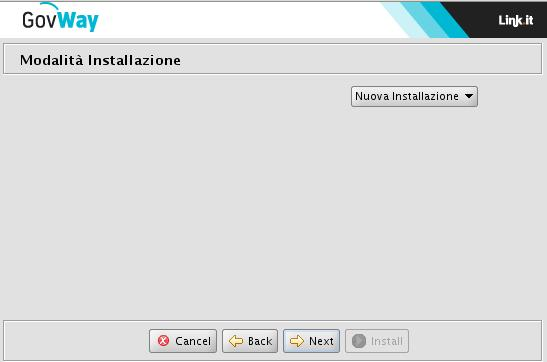
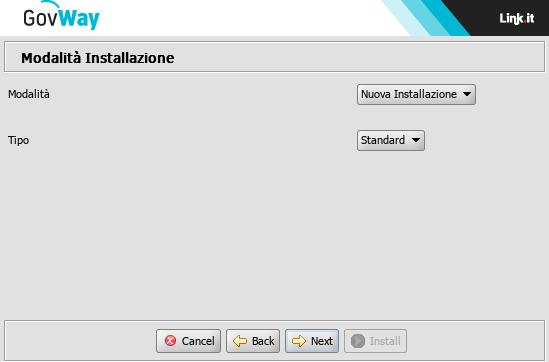
[Documentazione] Descritto funzionamento dell'installer in modalità avanzata
Squashed commit of the following:

commit a4750b3bcd899477bef75cd492e5b05870c6ed9e
Author: Giuseppe Papandrea <papandrea@link.it>
Date:   Tue May 25 11:58:28 2021 +0200

    dispiegamento in modalità avanzata

commit 7b5af4cf7c8bfaaf96d2fa9ba4d9eda7053fad40
Author: Giuseppe Papandrea <papandrea@link.it>
Date:   Thu May 20 17:40:02 2021 +0200

    Documentate le maschere dell'installazione avanzata del setup

diff --git a/resources/doc/src/manuali/installazione/installer/avanzata.rst b/resources/doc/src/manuali/installazione/installer/avanzata.rst
@@ -1,0 +1,85 @@
+.. _inst_installer_avanzata:
+
+Modalità Avanzata
+-----------------
+
+Se si è optato per la modalità di installazione "Avanzata", dopo aver visualizzato il pannello delle "Informazioni Preliminari",
+il processo d'installazione mostra un pannello aggiuntivo denominato "Informazioni Dispiegamento".
+
+   .. figure:: ../_figure_installazione/installer-infodeploy.jpg
+    :scale: 100%
+    :align: center
+
+    Informazioni Dispiegamento
+
+Le informazioni richieste da questo pannello servono a fornire le preferenze su come devono essere pacchettizzati i datasource
+e i singoli componenti applicativi, in accordo all'architettura di dispiegamento che si vuole adottare.
+
+La sezione **DBMS** prevede le seguenti opzioni:
+
+- *Configurazione*. Indica lo schema del database da utilizzare come repository delle configurazioni:
+
+	- *Utilizza stesso database del Runtime*: le configurazioni risiedono nel medesimo schema di esercizio di Govway
+
+	- *Database dedicato alla configurazione*: le configurazioni risiedono su uno schema separato da quello di esercizio di Govway
+
+- *Tracce*. Indica lo schema database da utilizzare come repository delle tracce:
+
+	- *Utilizza stesso database del Runtime*: le tracce risiedono nel medesimo schema di esercizio di Govway
+
+	- *Database dedicato alle Tracce*: le tracce risiedono su uno schema separato da quello di esercizio di Govway
+
+	- Opzione *Standard / Full Index*: se si sceglie l'opzione *Full Index*, il database sarà configurato con un indice contenente molteplici colonne che consente di migliorare le performance in fase di accesso alle tracce
+
+- *Statistiche*. Indica lo schema database da utilizzare come repository delle statistiche:
+
+	- *Utilizza stesso database del Runtime*: le statistiche risiedono nel medesimo schema di esercizio di Govway
+
+	- *Utilizza stesso database delle Tracce*: le statistiche risiedono nel medesimo schema utilizzato per le Tracce
+
+	- *Database dedicato alle Statistiche*: le statistiche risiedono su uno schema separato da quello di esercizio (e tracce) di Govway
+
+	- Opzione *Standard / Full Index*: se si sceglie l'opzione *Full Index* il database sarà configurato con un indice contenente molteplici colonne che consente di migliorare le performance in fase di accesso alle statistiche
+
+La sezione **Componenti Applicative** prevede le seguenti opzioni:
+
+- *Configurazione e Monitoraggio*: indica l'ambiente in cui saranno dispiegate le console web:
+
+	- *Utilizza stesso ambiente del Runtime*: le console web risiedono nel medesimo ambiente (application server) dove è in esecuzione il runtime di Govway
+
+	- *Ambiente dedicato*: le console web risiedono in un ambiente (application server) distinto da quello del runtime di Govway
+
+- *Generazione delle Statistiche*: scelta del meccanismo da adottare per il periodico aggiornamento delle statistiche:
+
+	- *Utilizza stesso ambiente del Runtime*: il meccanismo di generazione delle statistiche è automatizzato con un sistema di integrazione al runtime di Govway
+
+	- *Generazione tramite Applicazione Batch*: la generazione delle statistiche avviene tramite invocazione di un batch appositamente generato
+
+- *Gestione dei Nodi*: Indica la modalità con cui si vuole gestire la configurazione dei diversi nodi di runtime:
+
+	- *Statica*: modalità che prevede la registrazione manuale dei nodi presenti come descritto nella sezione :ref:`cluster`. In questo caso la console di gestione consente l'accesso a specifiche operazioni di manutenzione sui singoli nodi.
+
+	- *Dinamica*: modalità che prevede l'individuazione dinamica dei nodi presenti, senza che sia necessario specificarlo nella configurazione (utile in ambienti container). In questo scenario non risultano accessibili dalla console di gestione alcune operazioni di manutenzione sui singoli nodi.
+
+In funzione delle opzioni, fornite in questo pannello, saranno proposti dalla procedura d'installazione alcuni passaggi aggiuntivi.
+In particolare, riguardo l'accesso agli schemi del database, in funzione del numero di datasource previsto saranno opzionalmente richiesti in altrettanti pannelli:
+
+- *Informazioni DataSource dedicato alle Configurazioni*
+
+- *Informazioni DataSource dedicato alle Tracce*
+
+- *Informazioni DataSource dedicato alle Statistiche*
+
+In funzione della modalità di *Gestione dei Nodi* indicata, nel caso si sia scelto la modalità *Dinamica* verrà presentato l'ulteriore pannello *Dispiegamento Dinamico* che consente di indicare i seguenti dati:
+
+- *Servizio Check* URL: servizio che consente di monitorare lo stato dei nodi; è possibile utilizzare il servizio '/govway/check' di un qualsiasi nodo (es. acceduto tramite un bilanciatore) o un servizio fornito dal container.
+
+- *Servizio Proxy* URL: servizio che consente di inviare un comando ad ogni nodo di runtime attivo; deve essere indirizzato il servizio '/govway/proxy' di un qualsiasi nodo attivo.
+
+   .. figure:: ../_figure_installazione/installer-dyndeploy.jpg
+    :scale: 100%
+    :align: center
+
+    Dispiegamento Dinamico
+
+I restanti passi del processo di installazione rimangono invariati rispetto alla modalità Standard.

diff --git a/resources/doc/src/manuali/installazione/dispiegamento/nuovaInstallazione.rst b/resources/doc/src/manuali/installazione/dispiegamento/nuovaInstallazione.rst
@@ -30,6 +30,17 @@ seguenti:
 
     - *psql <hostname> <username> -f sql/GovWay_init.sql*
 
+	.. note::
+		In caso di installazione *Avanzata*:
+	
+		-	Gli script *sql/GovWay.sql* e *sql/GovWay_init.sql* saranno eseguiti limitatamente al database del runtime di Govway.
+	
+		-	Se presente lo script *sql/GovWayConfigurazione.sql*, deve essere eseguito per la creazione dello schema database dedicato alle configurazioni. Successivamente eseguire lo script *GovWayConfigurazione_init.sql* per l'inserimento dei dati di inizializzazione del database.
+	
+		-	Se presente lo script *sql/GovWayStatistiche.sql*, deve essere eseguito per la creazione dello schema database dedicato alle statistiche. Successivamente eseguire lo script *GovWayStatistiche_init.sql* per l'inserimento dei dati di inizializzazione del database.
+	
+		-	Se presente lo script *sql/GovWayTracciamento.sql*, deve essere eseguito per la creazione dello schema database dedicato alle tracce. Successivamente eseguire lo script *GovWayTracciamento_init.sql* per l'inserimento dei dati di inizializzazione del database.
+	
 #.  Installare il DriverJDBC, relativo al tipo di RDBMS indicato in fase
     di setup, nella directory:
 
@@ -71,6 +82,20 @@ seguenti:
     sostituire al loro interno il placeholder *NOME_DRIVER_JDBC.jar* con
     il nome del driver JDBC installato in precedenza.
 
+	.. note::
+		In caso di installazione *Avanzata*, in base alle scelte effettuate per differenziare gli schemi database saranno disponibili nella directory *dist/datasource* tutte le definizioni richieste. In particolare, se previsto, potranno essere presenti:
+	
+		-	*org.govway.datasource.tracciamento*, per l'accesso al database dedicato alle tracce
+	
+		-	*org.govway.datasource.statistiche*, per l'accesso al database dedicato alle statistiche
+	
+		
+		Se inoltre è stato indicato un ambiente dedicato per *Configurazione e Monitoraggio", quindi distinto dal runtime, dentro la directory *dist/datasource* saranno presenti le due directory:
+	
+		-	*runtime*, contenente i datasource da dispiegare nell'ambiente dedicato al runtime di Govway
+	
+		-	*manager*, contenente i datasource da dispiegare nell'ambiente dedicato alle console di configurazione e monitoraggio
+	
 #.  Eseguire il dispiegamento delle applicazioni presenti nella
     directory *archivi* secondo le modalità disponibili per
     l'Application Server scelto. Per un rapido dispiegamento è possibile
@@ -79,6 +104,13 @@ seguenti:
     -  *<WILDFLY_HOME>/standalone/deployments*, nel caso di Wildfly.
 
     -  *<TOMCAT_HOME>/webapps*, nel caso di Tomcat
+
+	.. note::
+		In caso di installazione *Avanzata*, se è stata indicata la scelta di un ambiente dedicato per Configurazione e Monitoraggio, la directory *dist/archivi* conterrà due subdirectory:
+
+		-	*runtime*, contenente gli archivi applicativi da dispiegare nell'ambiente dedicato al runtime di Govway
+	
+		-	*manager*, contenente gli archivi applicativi da dispiegare nell'ambiente dedicato alle console di configurazione e monitoraggio
 
 #.  Verificare che la directory di lavoro di GovWay, fornita con le
     informazioni preliminari dell'utility di installazione, esista o
@@ -93,8 +125,18 @@ seguenti:
     La directory di destinazione deve essere accessibile in lettura
     all'utente con cui si esegue l'Application Server.
 
+	.. note::
+		In caso di installazione *Avanzata*, se è stata indicata la scelta di un ambiente dedicato per Configurazione e Monitoraggio, la directory *dist/cfg* conterrà due subdirectory:
+
+		-	*runtime*, contenente i file di configurazione da copiare nella directory di lavoro dell'ambiente dedicato al runtime di Govway
+	
+		-	*manager*, contenente i file di configurazione da copiare nella directory di lavoro dell'ambiente dedicato alle console di configurazione e monitoraggio
+
 #. Avviare l'application server con il relativo service oppure utilizzando la linea di comando:
 
     -  *<WILDFLY_HOME>/bin/standalone.sh*, nel caso di Wildfly.
 
     -  *<TOMCAT_HOME>/bin/startup.sh*, nel caso di Tomcat.
+
+.. note::
+	In caso di installazione *Avanzata*, se è stata indicata la scelta *Generazione tramite Applicazione Batch* relativamente all'opzione di *Generazione delle Statistiche*, sarà presente la directory *dist/batch*. Per il dispiegamento del batch fare riferimento alla sezione :ref:`deploy_batch`.

diff --git a/resources/doc/src/releaseNotes/3.3.4/api.rst b/resources/doc/src/releaseNotes/3.3.4/api.rst
@@ -4,18 +4,20 @@ Miglioramenti alle API di Gestione e Monitoraggio
 
 Sono stati apportati i seguenti miglioramenti alle API di gestione:
 
-- È adesso possibile ottenere la lista degli oggetti presenti nel registro relativamente a qualsiasi profilo e/o soggetto. 
+- aggiunta la possibilità di effettuare configurazione con il Profilo 'ModI';
 
-- È stata aggiunta la possibilità di filtrare per API sulle erogazioni e fruizioni.
+- è adesso possibile ottenere la lista degli oggetti presenti nel registro relativamente a qualsiasi profilo e/o soggetto;
 
-- Il parametro 'Access-Control-Max-Age', per le richieste Preflight CORS, è adesso configurabile via API.
+- aggiunta la possibilità di filtrare per API sulle erogazioni e fruizioni;
+
+- il parametro 'Access-Control-Max-Age', per le richieste Preflight CORS, è adesso configurabile via API.
 
 
 Sono stati apportati i seguenti miglioramenti alle API di monitoraggio:
 
-- Aggiunta la possibilità di ottenere report statistici filtrando per l'identificativo del cluster.
+- aggiunta la possibilità di ottenere report statistici filtrando per l'identificativo del cluster;
 
-- È adesso possibile ricercare transazioni oltre che per IdMessaggio anche per id di conversazione o di riferimento alla richiesta.
+- è adesso possibile ricercare transazioni oltre che per IdMessaggio anche per id di conversazione o di riferimento alla richiesta.
 	
 
 

diff --git a/resources/doc/src/manuali/installazione/dispiegamento/batch.rst b/resources/doc/src/manuali/installazione/dispiegamento/batch.rst
@@ -1,0 +1,24 @@
+.. _deploy_batch:
+
+Batch Generazione Statistiche
+-----------------------------
+
+Tra le opzioni dell'installazione avanzata esiste l'opzione che consente di mantenere il controllo diretto sulla generazione delle statistiche tramite una procedura batch.
+Selezionando l'opzione di *Generazione tramite Applicazione Batch* relativamente alla voce *Generazione delle Statistiche*, il processo di installazione crea la directory *dist/batch*.
+L'esecuzione della procedura deve essere schedulata ad intervalli regolari ad esempio utilizzando un cron.
+
+Dentro la directory *dist/batch* troviamo le seguenti subdirectory:
+
+	- *generatoreStatistiche*, che comprende il batch
+
+	- *crond*, che comprende un esempio di utilizzo del batch agganciato a un cron
+
+La directory *dist/batch/generatoreStatistiche* contiene la seguente struttura:
+
+	- directory *lib*, che comprende le librerie per l'esecuzione del batch
+
+	- directory *jdbc*, che deve essere popolata con il driver JDBC adeguato alla piattaforma database adottata
+
+	- directory *properties*, che comprende i file di configurazione. Tra questi troviamo il file *daoFactory.properties* dove sono presenti i dati per la connessione al database
+
+	- script shell per l'esecuzione dei batch che campionano le informazioni statistiche su differenti intervalli: orario o giornaliero.

diff --git a/resources/doc/src/manuali/installazione/installer/index.rst b/resources/doc/src/manuali/installazione/installer/index.rst
@@ -23,12 +23,17 @@ Esecuzione dell'Installer
    procede con la scelta della *Modalità di Installazione*. Le scelte
    possibili sono:
 
-   -  *Nuova Installazione*: scelta da effettuare nel caso in cui si
-      stia procedendo con una nuova installazione di GovWay.
+   - *Modalità*:
 
-   -  *Aggiornamento*: scelta da effettuare nel caso in cui si stia
-      procedendo con l'aggiornamento di una versione di GovWay
-      precedentemente installata.
+   	- *Nuova Installazione*: scelta da effettuare nel caso in cui si stia procedendo con una nuova installazione di GovWay.
+
+   	- *Aggiornamento*: scelta da effettuare nel caso in cui si stia procedendo con l'aggiornamento di una versione di GovWay precedentemente installata.
+
+   - *Tipo*:
+
+	- *Standard*: selezione del modello architetturale più semplice e adeguato nei casi più comuni
+
+	- *Avanzata*: permette di selezionare caratteristiche architetturali avanzate nei casi con esigenze specifiche
 
    .. figure:: ../_figure_installazione/installer-scr0b.jpg
       :scale: 100%
@@ -41,3 +46,4 @@ Esecuzione dell'Installer
 
         nuovaInstallazione
 	aggiornamento
+	avanzata

diff --git a/resources/doc/src/releaseNotes/3.3.4/console.rst b/resources/doc/src/releaseNotes/3.3.4/console.rst
@@ -28,6 +28,8 @@ Sono stati apportati i seguenti miglioramenti alla console di gestione:
 
 - aggiunta funzionalità di filtro per Tag nelle policy di Rate Limiting a livello di configurazione globale;
 
+- nella configurazione del tracciamento, dove è possibile indicare gli esiti delle transazioni da registrare, viene adesso gestita tramite una voce dedicata l'esito relativo alla violazione di una policy di RateLimiting;
+
 - nelle maschere di configurazione dei connettori:
 
 	- è stata aggiunta la nota "Indicazione in millisecondi (ms)" nei campo relativi alla sezione "ridefinisci tempi di risposta";
@@ -41,4 +43,6 @@ Sono stati apportati i seguenti miglioramenti alla console di gestione:
 	- Policy di Rate Limiting del Controllo del Traffico
 
 	- Regole di Proxy Pass
+
+- è adesso possibile attivare una scadenza temporale alle password associate alle utenze delle console.
 

diff --git a/resources/doc/src/releaseNotes/3.3.4/core.rst b/resources/doc/src/releaseNotes/3.3.4/core.rst
@@ -50,6 +50,8 @@ Infine sono stati apportati i seguenti ulteriori miglioramenti:
 
 - aggiunta la possibilità di configurare ulteriori Content-Type associabili a richieste SOAP 1.2 (per default viene accettato solo 'application/soap+xml');
 
+- l'autenticazione 'https', attivabile nel controllo degli accessi delle erogazioni e fruizioni, effettua adesso anche la verifica della validità temporale del certificato ricevuto;
+
 - la lettura delle proprietà di configurazione dai file locali (es. govway_local.properties) è stata rivista per risolvere le variabili indicate nei file anche come variabile di sistema oltre che come variabili java;
 
 - è stato rivisto il diagnostico relativo ad una richiesta duplicata al fine di fornire un messaggio più generico rispetto a quello precedente specifico per il profilo SPCoop;

diff --git a/resources/doc/src/manuali/installazione/dispiegamento/index.rst b/resources/doc/src/manuali/installazione/dispiegamento/index.rst
@@ -12,8 +12,13 @@ Il processo di dispiegamento del software si distingue nei casi di nuova
 installazione e aggiornamento. Le sezioni seguenti illustrano i due
 casi.
 
+.. note::
+	Se in fase di esecuzione del wizard di installazione si è scelta la modalità *Avanzata*, in base alle opzioni aggiuntive fornite, potrà essere stato prodotto un numero maggiore di elementi da dispiegare negli ambienti di installazione.
+	Le sezioni seguenti forniranno un dettaglio a parte per il caso dell'installazione avanzata. Tali indicazioni potranno essere ignorate in caso di installazione standard.
+
 .. toctree::
         :maxdepth: 2
 
         nuovaInstallazione
 	aggiornamento/index
+	batch
